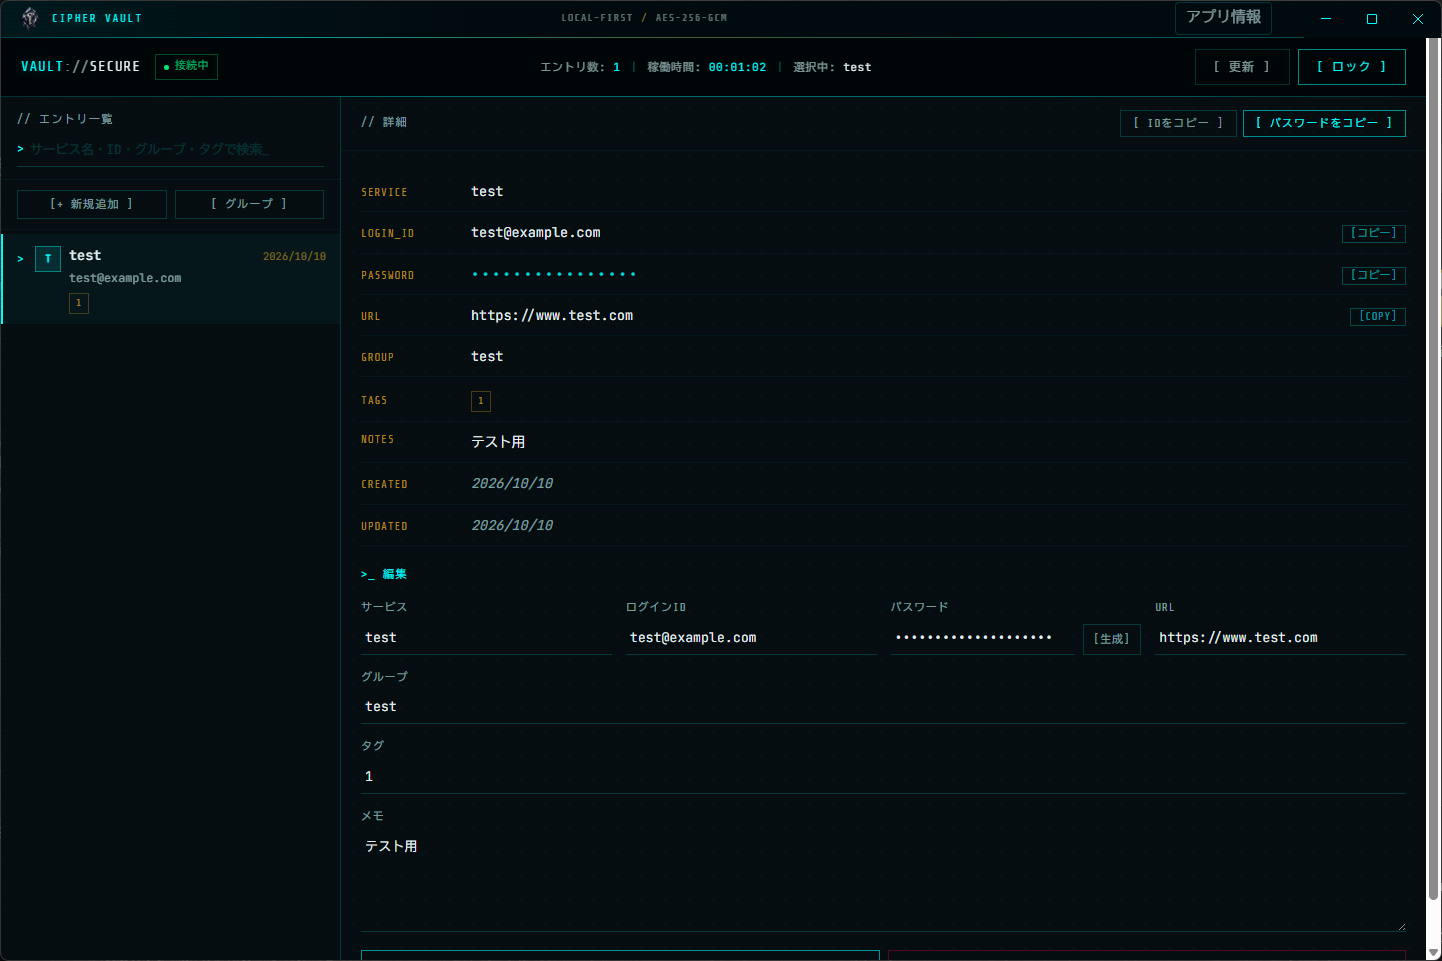
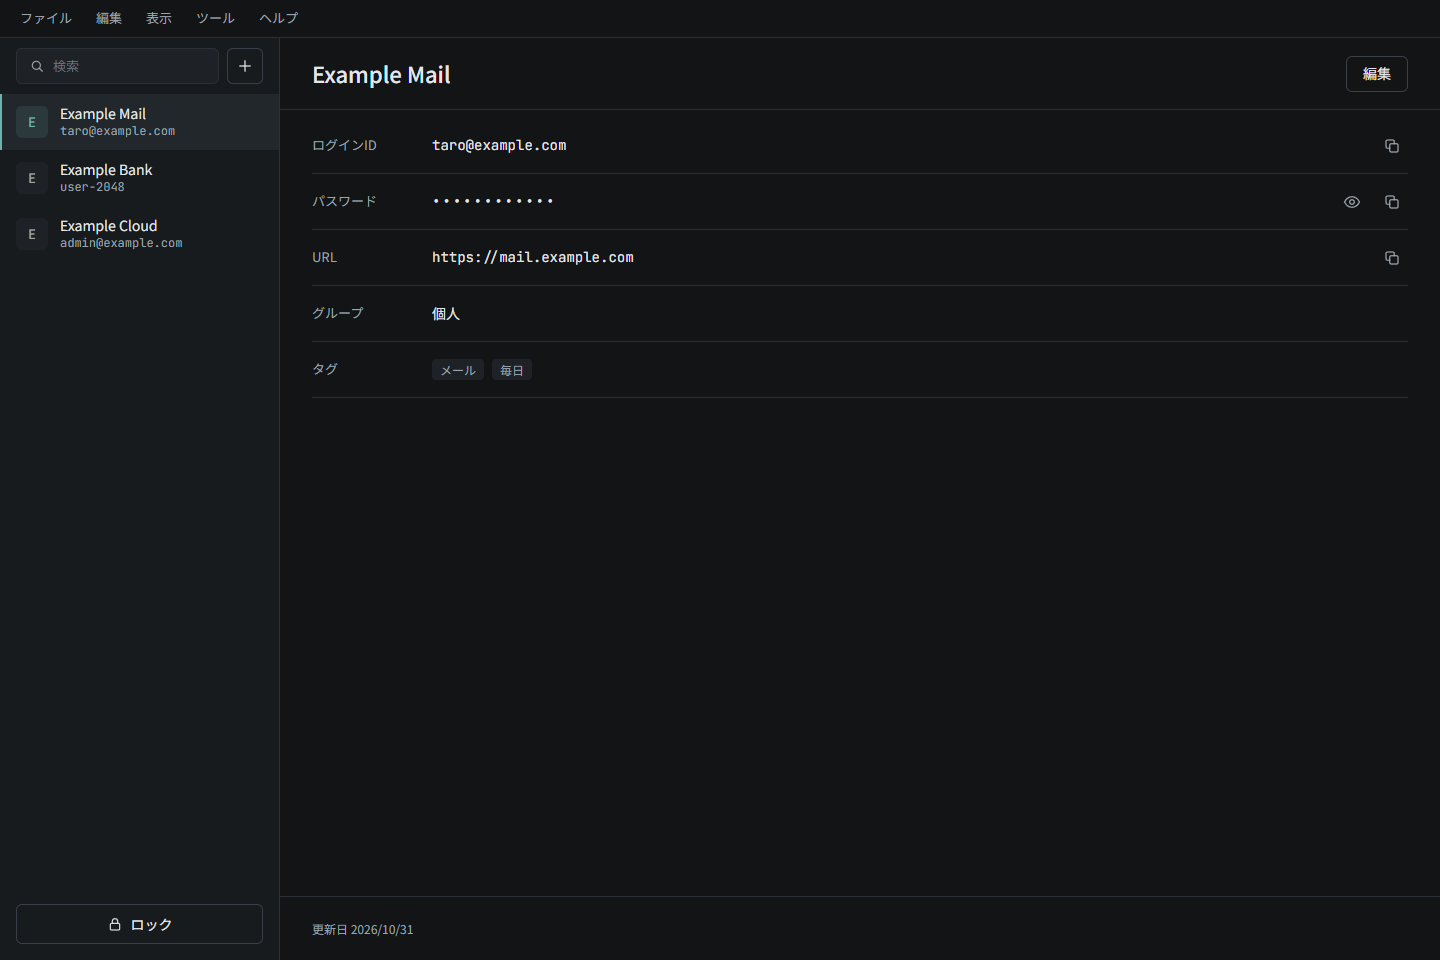
fix: align vault format handling and refresh README screenshots
- Start the web policy test with openApplicationVault like server.ts, so
  the status carries the vault format and the menu check is meaningful
- Default the maintenance dialog to migrate unless the vault is known v2,
  matching the Tools menu and the editor notice
- Retake README screenshots of the remade UI with synthetic data

diff --git a/apps/web/src/components/VaultMaintenance.tsx b/apps/web/src/components/VaultMaintenance.tsx
@@ -19,7 +19,8 @@ export function VaultMaintenance({ status, requested, opened, onClose }: { statu
   const dialog = useRef<HTMLDialogElement>(null), form = useRef<HTMLFormElement>(null), firstInput = useRef<HTMLInputElement>(null);
   const busyRef = useRef(false), alive = useRef(true), source = useRef(""), wasOpened = useRef(false);
   const cancelRequested = useRef(false);
-  const fallback = (): VaultMaintenanceOperation => status.maintenance?.format === "legacy" ? "migrate" : "rekey";
+  // Same rule as the Tools menu and the editor notice: only a known v2 vault offers rekey.
+  const fallback = (): VaultMaintenanceOperation => status.maintenance?.format === "v2" ? "rekey" : "migrate";
   const [operation, setOperation] = useState<VaultMaintenanceOperation>(status.maintenance?.state === "recovery-required" ? "recover" : fallback());
   const [fields, setFields] = useState(empty), [acknowledged, setAcknowledged] = useState(false);
   const [busy, setBusy] = useState(false), [cancelBusy, setCancelBusy] = useState(false), [error, setError] = useState(""), [message, setMessage] = useState("");

diff --git a/README.md b/README.md
@@ -30,7 +30,7 @@ Windows用の実行ファイルは [GitHub Releases](https://github.com/Termnix-
 
 ## 基本操作と画面
 
-以下の画像は現在より前のデザインのデスクトップ版です。登録画面の値はテスト用です。現在の画面は左に一覧、右に詳細を表示し、「編集」で入力欄に切り替えます。バックアップとパスワードの点検は「ツール」から開きます。
+以下の画像はデスクトップ版の画面です。表示している値はすべてテスト用です。左に一覧、右に詳細を表示し、「編集」で入力欄に切り替えます。バックアップとパスワードの点検は「ツール」から開きます。
 
 ### 1. 保管庫を設定・解除する
 
